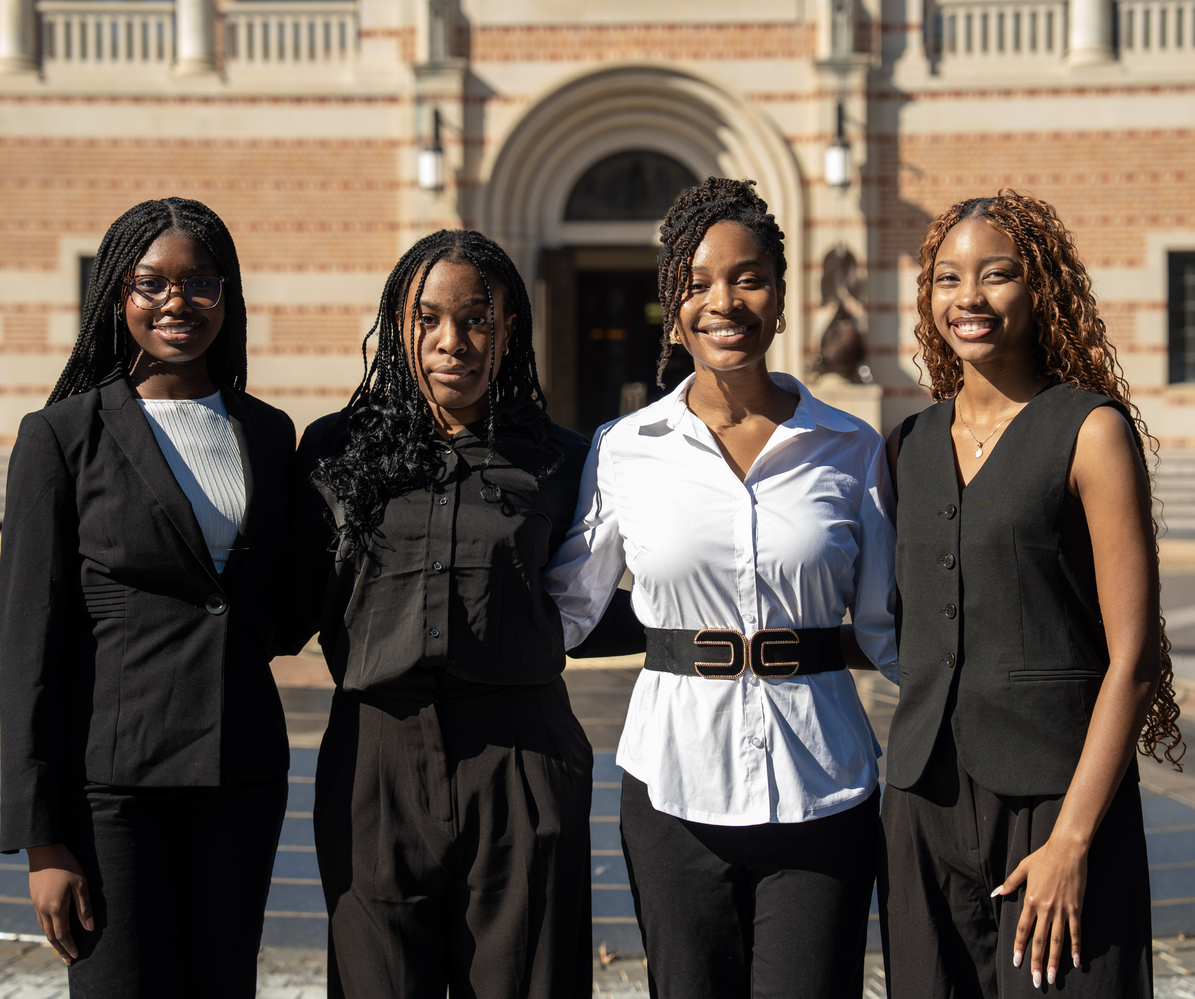
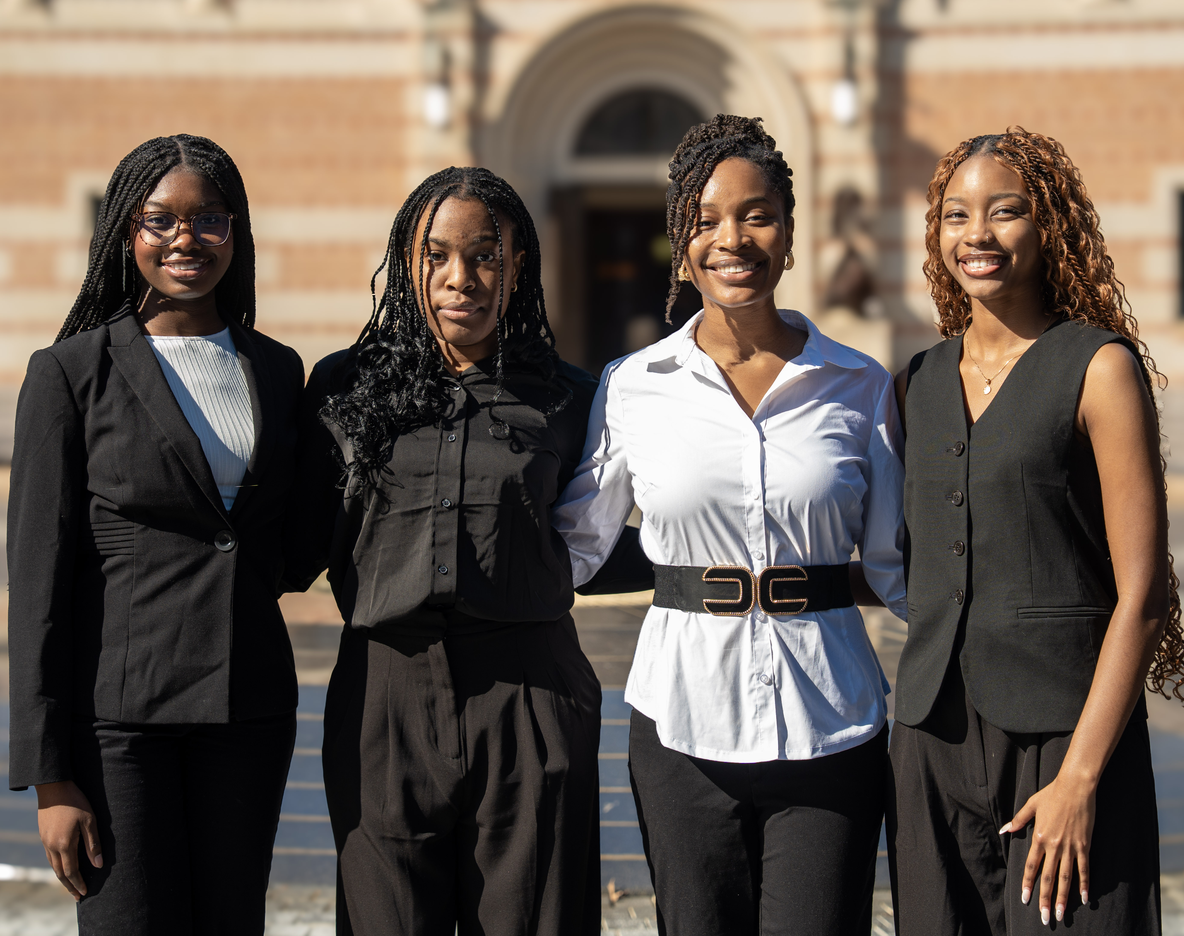
Update image source in AboutHero component for accuracy

diff --git a/src/components/about/AboutHero.tsx b/src/components/about/AboutHero.tsx
@@ -34,7 +34,7 @@ const AboutHero = () => {
         className="w-full lg:w-[61%] h-screen relative"
       >
         <img
-          src="raade-innov-team-core.jpg"
+          src="raade-innov-team-core-2.jpg"
           alt="RAADE Innovation Studio Team at Rice Business School"
           className="absolute inset-0 w-full h-full object-cover"
         />
